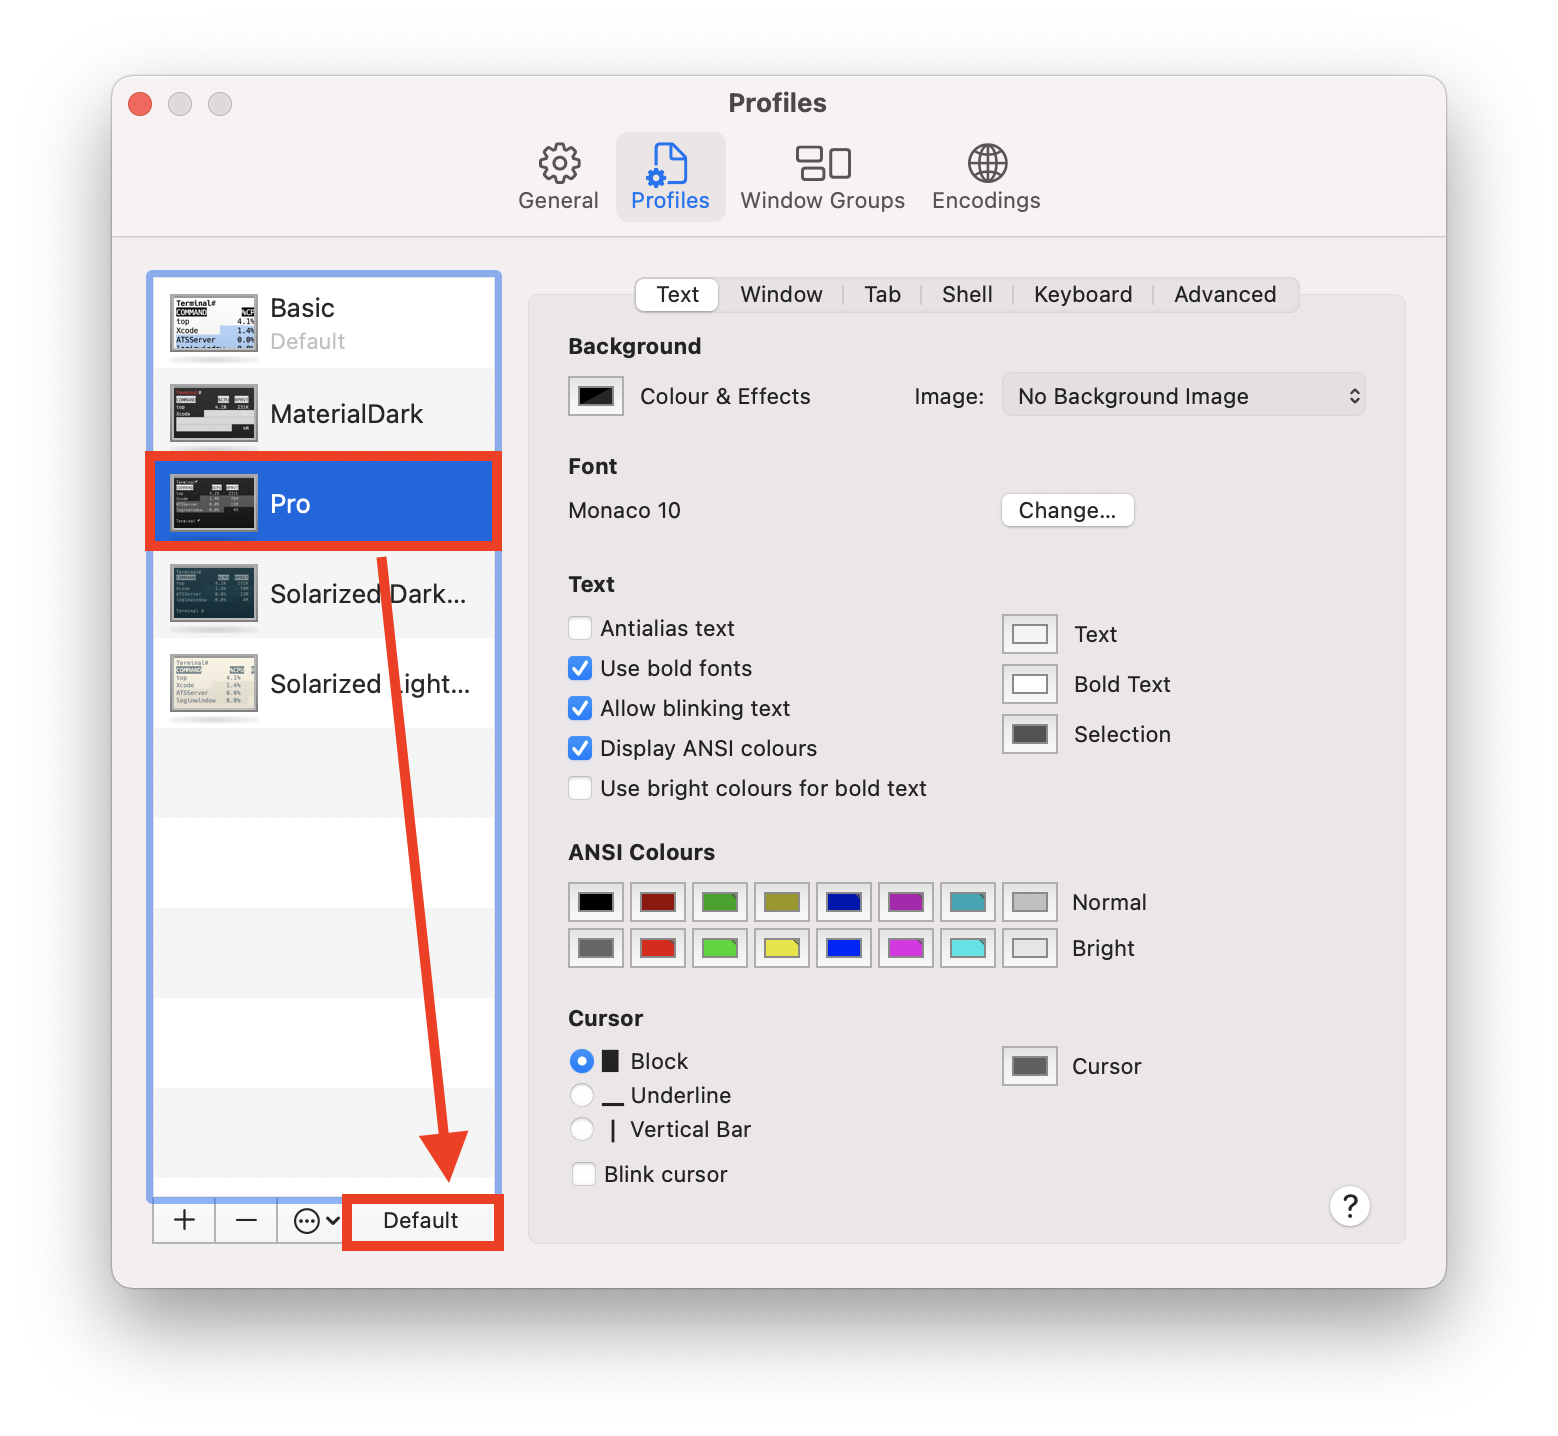
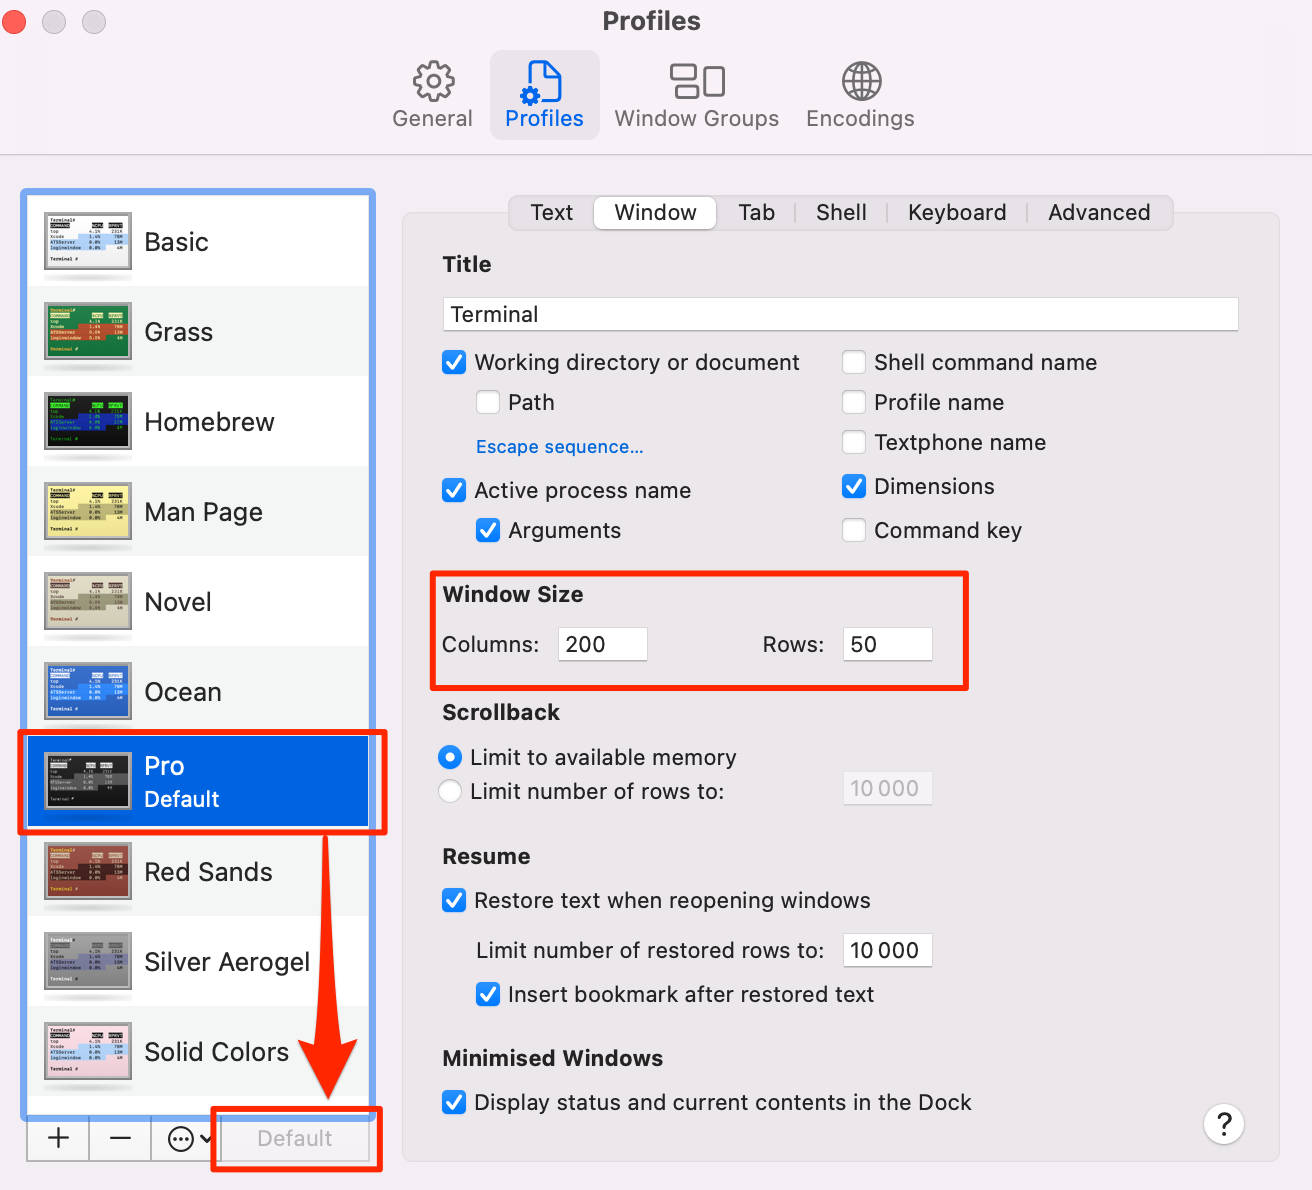
Set terminal default size in macOS  (#389)
* add github light theme

* set macos terminal default size

* setup guides generated

* improve image for macOS terminal

Changed region(s): [[0.0, 0.0, 0.9688, 0.995], [0.0, 0.0, 0.0938, 0.0311]]

diff --git a/macos.md b/macos.md
@@ -212,6 +212,8 @@ Launch a terminal, click on `Terminal > Preferences` and set the "Pro" theme as 
 
 ![Set Pro Theme for macOS terminal](images/macos_terminal_pro.png)
 
+In Window tab, set also your **Window Size** to Columns: 200, Rows: 50
+
 **Quit and restart** your terminal: it should now have a nice black background, easier on the eyes.
 
 

diff --git a/_partials/macos_terminal.md b/_partials/macos_terminal.md
@@ -4,4 +4,6 @@ Launch a terminal, click on `Terminal > Preferences` and set the "Pro" theme as 
 
 ![Set Pro Theme for macOS terminal](images/macos_terminal_pro.png)
 
+In Window tab, set also your **Window Size** to Columns: 200, Rows: 50
+
 **Quit and restart** your terminal: it should now have a nice black background, easier on the eyes.
